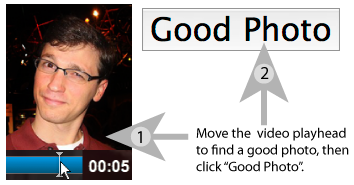
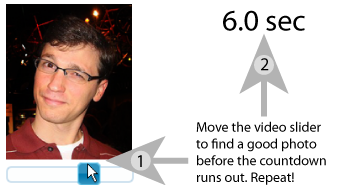
location pinging and creating phases

Changed region(s): [[0.0, 0.5946, 0.9944, 1.0], [0.404, 0.027, 0.9633, 0.5405]]

diff --git a/web/js/video.js b/web/js/video.js
@@ -4,6 +4,7 @@
 
 var SCALE_FACTOR = 0.25;
 var RANDOM_TASK_URL = "rts/video/random";
+var TOTAL_PHOTOS = 3;
 
 var snapshots = [];
 
@@ -29,7 +30,7 @@ try { console.log('Javascript console found.'); } catch(e) { console = { log: fu
 $(document).ready(function() {
 	$.ajaxSetup({ cache: false });
 	loadParameters();
-	initDatePrototype();    // some browsers don't have toISOString()
+	initPrototypes();    // some browsers don't have toISOString()
 	initServerTime();
 
 	$('#snapshotBtn').click(shoot);
@@ -76,14 +77,16 @@ function videoDataCallback(data) {
  */
 function initializeVideo() {
     $f("player", "http://releases.flowplayer.org/swf/flowplayer-3.2.7.swf", {
-            // don't start automcatically
+            // don't start automatically
             clip: {
                 autoPlay: false,
                 autoBuffering: true,
-                onBegin: function() {
+                onMetaData: function() {
                     // Go to random frame so everyone
                     // doesn't choose the first frame
-                    window.setTimeout(setRandomFrame, 500); // this seems like a hack
+                    
+                    // HACK: video isn't ready when it says it is
+                    window.setTimeout(setRandomFrame(), 250);
                 }                 
             },
                 
@@ -100,14 +103,19 @@ function initializeVideo() {
         });
     
     
+    var slider_max = 1000;
     $( "#slider" ).slider( {
         slide: function(event, ui) {
-            var percent = ui.value / 100;
+            var percent = ui.value / slider_max;
             var duration = $f().getClip().fullDuration;
             $f().getPlugin("play").hide();
             $f().seek(duration * percent).getPlugin("play").hide();
             
-        }
+        },
+        
+        min: 0,
+        max: slider_max,
+        step: 1
     });
 }
 
@@ -120,6 +128,8 @@ function setRandomFrame() {
     
     $('#slider').slider("value", rand * 100);
     $f().seek(duration * rand).getPlugin("play").hide();    
+    console.log("starting timer now");
+    startTimer();
 } 
  
 /**
@@ -164,7 +174,7 @@ function refreshShots() {
 }
 
 function submitForm() {
-    if (snapshots.length < 3) {
+    if (snapshots.length < TOTAL_PHOTOS) {
 	$('#submitError').html("You have selected fewer than three photos. Please select at least three photos and then submit.");
 	return;
     }
@@ -206,10 +216,16 @@ function submitForm() {
 // Date prototype hacking in case the browser does not support it
 // ref: http://williamsportwebdeveloper.com/cgi/wp/?p=503
 
-function initDatePrototype() {
+function initPrototypes() {
     if (Date.prototype.toISOString == null) {
         console.log("Adding to Date prototype.");
         Date.prototype.toISOString = toISOString;
+    }
+    if (!Number.prototype.toFixed) {
+        Number.prototype.toFixed = function(precision) {
+            var power = Math.pow(10, precision || 0);
+            return String(Math.round(this * power)/power);
+        };
     }
 }
 
@@ -339,4 +355,47 @@ function logEvent(eventName, detail, finishedCallback) {
         }
     );
     
+}
+
+var timerStart = null;
+var countdownInterval;
+var TIME_PER_COUNTDOWN = 6000;
+/**
+ * Starts the snapshot timer. Sets the start time
+ * and starts the first timer. It will continue until three
+ * shots have been taken.
+ */
+function startTimer() {
+    timerStart = new Date();
+    countdownInterval = window.setInterval(timer, 150);
+    timer();    // do it once immediately.
+}
+
+/**
+ * Called upon each interval fire. When time runs out,
+ * will take a photo and start a new interval until
+ * it has enough photos
+ */
+function timer()
+{    
+    left = (new Date())-timerStart;
+    if (left >= TIME_PER_COUNTDOWN)
+    {
+        fireSnapshot();         
+        if (snapshots.length >= TOTAL_PHOTOS) {
+            window.clearInterval(countdownInterval);
+            $('.countdown').html("Done! Submitting...");
+            submitForm();
+            return;
+        }
+    }
+
+    var display = Math.max(0, ((TIME_PER_COUNTDOWN - left) / 1000).toFixed(1));
+    $('.countdown').html(display + "sec")
+}
+
+function fireSnapshot() {
+    $('#taskContainer').effect('highlight', {}, 500);
+    shoot();
+    timerStart = new Date();
 }

diff --git a/web/js/retainer-video.js b/web/js/retainer-video.js
@@ -128,13 +128,13 @@ function showText() {
         $('#time-report').html(timeString).fadeIn();
     }
     
-    $('#donebtn').show();
+    //$('#donebtn').show();
     $('#goContainer').hide();
     if (assignmentid != 0) {
         $('#donebtn').attr("disabled", "").html("Done");    
     }
     $('#taskText').show();
-    $('#taskContainer').effect('highlight', {}, 3000);    
+    $('#taskContainer').effect('highlight', {}, 3000);
 }
 
 function grantBonus() {

diff --git a/web/css/video.css b/web/css/video.css
@@ -22,3 +22,7 @@
 #slider {
     margin-top: 10px;
 }
+
+.countdown {
+    font-size: 20pt;
+}

diff --git a/rts/video/location_ping.py b/rts/video/location_ping.py
@@ -1,0 +1,145 @@
+from mod_python import apache, util
+import json
+from datetime import datetime
+
+from rtsutils.db_connection import DBConnection
+from rtsutils.timeutils import unixtime
+
+from rts import rts_logging
+import logging
+
+# TODO: this stuff may need to go into transactions
+# to avoid bugs
+
+AGREEMENT_RANGE = .15   # Agreement must occur within this % 
+                        # of the current phase range
+AGREEMENT_PERCENT = (1.0 / 3) # This % of workers must agree on a range
+AGREEMENT_MINIMUM = 2   # At least this many must agree (no single person!)
+
+def locationPing(request):
+    db = DBConnection()
+
+    (phase, assignment, location, video_id) = getArgs(request)    
+    servertime = unixtime(datetime.now())
+    logging.debug("Location %s for video %s" % (location, video_id))
+    
+    cur_phase = getMostRecentPhase(video_id, db)
+    if cur_phase['phase'] != phase:
+        # There is a newer phase than the one we're looking at,
+        # use that one instead and return to the client
+        request.write(json.dumps(cur_phase))
+        return
+    
+    # Now we know that we are on the right phase
+    pushLocation(location, phase, assignment, video_id, servertime, db)
+    (is_new_phase, new_min, new_max) = compareLocations(cur_phase, db)
+    
+    if is_new_phase:
+        # Agreement! Create a new phase.
+        id = createPhase(video_id, new_min, new_max, servertime, db)
+        result = dict(phase=id, min=new_min, max=new_max)
+        request.write(json.dumps(result))
+    else:
+        # Nobody agrees yet, return the current phase
+        request.write(json.dumps(cur_phase))
+    
+def getArgs(request):
+    """ 
+    Gets the useful arguments out of the request object
+    and parses them into a tuple
+    """
+    form = util.FieldStorage(request)    
+    phase = int(form['phase'].value)
+    assignment = form['assignmentid'].value
+    location = float(form['location'].value)
+    video_id = int(form['videoid'].value)
+    
+    return (phase, assignment, location, video_id)
+
+    
+def getMostRecentPhase(video_id, db):
+    """
+    Returns the most recent phase created for this video.
+    Assumes that there is always at least one phase for this video.
+    (Should have been created in ready.py)
+    """
+    
+    sql = """SELECT phase, max, min FROM phases WHERE videoid = %s ORDER BY start DESC LIMIT 1"""
+    
+    return db.query_and_return_array(sql, (video_id,) )[0]
+
+        
+def createPhase(video_id, new_min, new_max, servertime, db):
+    """
+    Creates a new phase for the video with the specified min and max
+    """
+
+    # First, close the old phase    
+    most_recent = db.query_and_return_array("""SELECT MAX(phase) FROM phases WHERE videoid = %s""", (video_id, ))
+    if len(most_recent) > 0:
+        sql = """UPDATE phases SET end = %s WHERE phase = %s """
+        db.query_and_return_array(sql, (servertime, most_recent[0]['MAX(phase)']) )
+    
+    sql = """INSERT INTO phases (videoid, min, max, start) 
+    VALUES (%s, %s, %s, %s)"""
+    id = db.query_and_return_insert_id(sql, (video_id, new_min, new_max, servertime) )
+    return id
+
+
+def pushLocation(location, phase, assignment, video_id, servertime, db):
+    """
+    Adds the current location to the given phase
+    """
+    
+    sql = """INSERT INTO locations (videoid, assignmentid, location, servertime, phase) VALUES (%s, %s, %s, %s, %s)"""
+    
+    db.query_and_return_array(sql, (video_id, assignment, location, servertime, phase))
+
+
+def compareLocations(phase, db):
+    """
+    Gets all the locations for the current video and phase out of the DB,
+    then compares them to see if we should start a new phase
+    """
+    
+    sql = """SELECT location, MAX(servertime) FROM locations WHERE phase = %s GROUP BY assignmentid"""
+    result = db.query_and_return_array(sql, (phase['phase'],))
+    locations = sorted([row['location'] for row in result])
+    
+    # The effective range that workers must agree on
+    agreement_range = max(AGREEMENT_RANGE * float(phase['max'] - phase['min']), 1)
+    
+    # We need to find out if at least required_workers have agreed on
+    # a range that is at most agreement_range
+    
+    # We use a sliding window approach. Iterate through each location, then look
+    # ahead to see how many locations are in the next agreement_rage positions.
+    # Keep the range with the most agreeing people
+    ranges = []
+    for (i, location) in enumerate(locations):
+        range = dict()
+        
+        range['min'] = location
+        range['max'] = location + agreement_range
+        # We're going to do this the easy-to-code way since the list is
+        # likely to be small: just filter the entire list dynamically each time
+        range['agreement'] = len( filter( lambda x: x >= range['min'] and x < range['max'], locations ) )
+        logging.debug("Agreement %s in [%s, %s)" % (range['agreement'], range['min'], range['max']) )
+        
+        # set the effective max of the new range to be the largest item in the range
+        range['max'] = locations[i + (range['agreement'] - 1)]
+        
+        ranges.append(range)
+    
+    best = max(ranges, key = lambda k: k['agreement'])
+
+    # How many workers must agree
+    required_workers = max(AGREEMENT_PERCENT * len(locations), AGREEMENT_MINIMUM)
+    logging.debug("Required to agree: %s. Agreeing: %s" % (required_workers, best['agreement']))
+    if best['agreement'] >= required_workers:
+        # They agree! Time to start new phase.
+        return (True, best['min'], best['max'])
+    else:
+        return (False, None, None)
+        
+    

diff --git a/rtsutils/db_connection.py b/rtsutils/db_connection.py
@@ -58,3 +58,9 @@ class DBConnection():
         rs = cursor.fetchall()
         cursor.close()
         return rs
+    
+    def query_and_return_insert_id(self, query, parameters=tuple()):
+        cursor = self.query_and_return_cursor(query, parameters)
+        insert_id = self._db.insert_id()
+        cursor.close()
+        return insert_id

diff --git a/rts/video/handler.py b/rts/video/handler.py
@@ -11,6 +11,11 @@ def handler(request):
         import ready
         ready.is_ready(request)
         return apache.OK
+        
+    elif uri_parts[-1] == "location":
+        import location_ping
+        location_ping.locationPing(request)
+        return apache.OK
 
     elif uri_parts[-1] == "random":
         import random

diff --git a/rtsutils/video_poster.py b/rtsutils/video_poster.py
@@ -3,6 +3,7 @@ from datetime import datetime, timedelta
 import time
 import random
 
+
 from video_hit import *
 from db_connection import *
 from mt_connection import *
